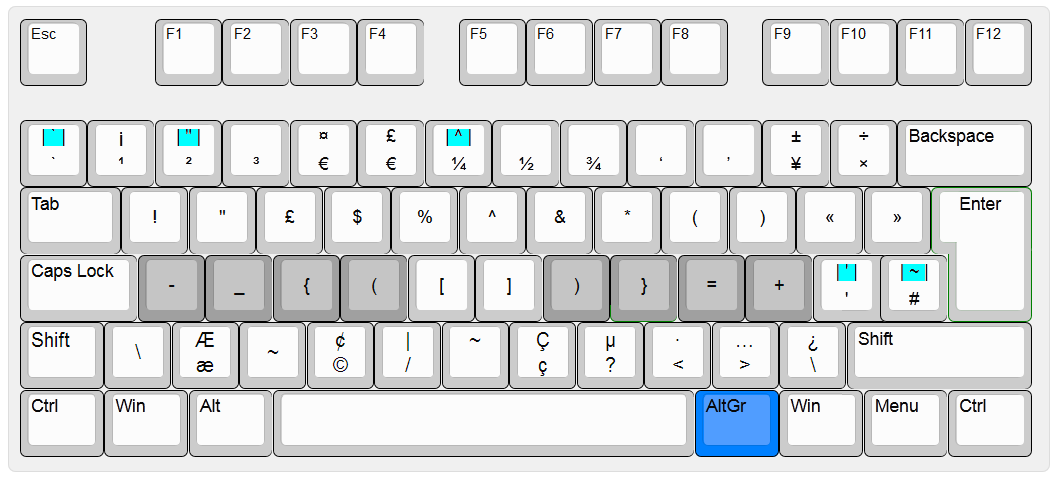
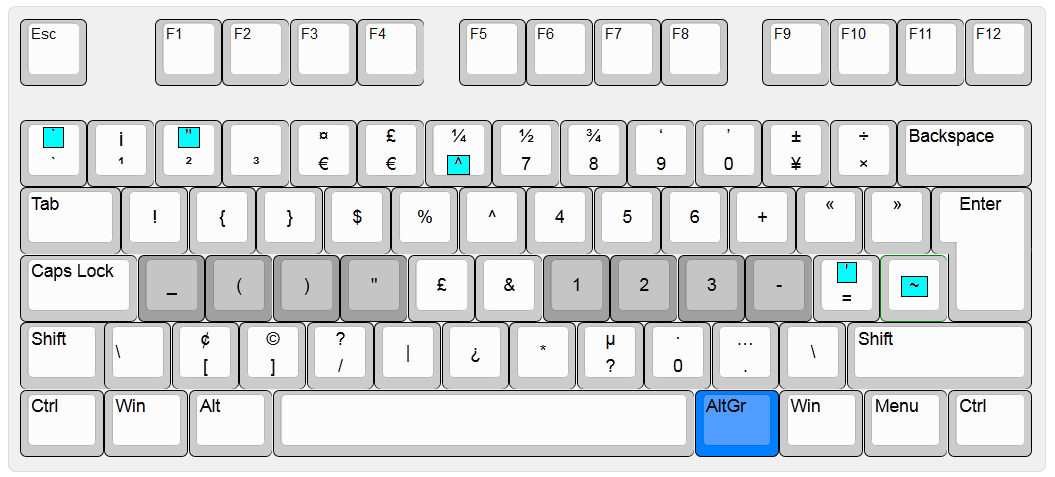
New version of AltGr layer with virtual numeric keypad.

diff --git a/AltGr/README.md b/AltGr/README.md
@@ -3,11 +3,11 @@ AltGr AutoHotkey scripts
 
 ## AltGr Progammer extension 
 
-Makes available commonly needed programmer characters such as brackets and symbols, available in convenient locations on the keyboard. Avoid awkward stretching for those common keys.
+Makes available commonly needed programmer characters such as brackets and symbols, available in convenient locations on the keyboard. Avoid awkward stretching for those common keys. Also adds a virtual numeric keybad to right hand. 
 
 - Hold AltGr then press another key to get the desired character.  AltGr is an ideal key as it can be hit with the right thumb.
-- Most common characters used by programmers are on the home row.
-- Characters on upper letter row are equivalent to a Shift plus a number key, making it earier to remember symbols.
+- Many common characters used by programmers such as brackets are on the home row or other easy to reach keys.
+- Numeric keypad allows quick entering of numbers without leaving the home position.
 - Also implements some of the AltGr International Extension (see below) so you can also type many extended and accented characters via dead keys (indicated with light blue background).
 
 ![altgr_programmer_std.png](altgr_programmer_std.png)
